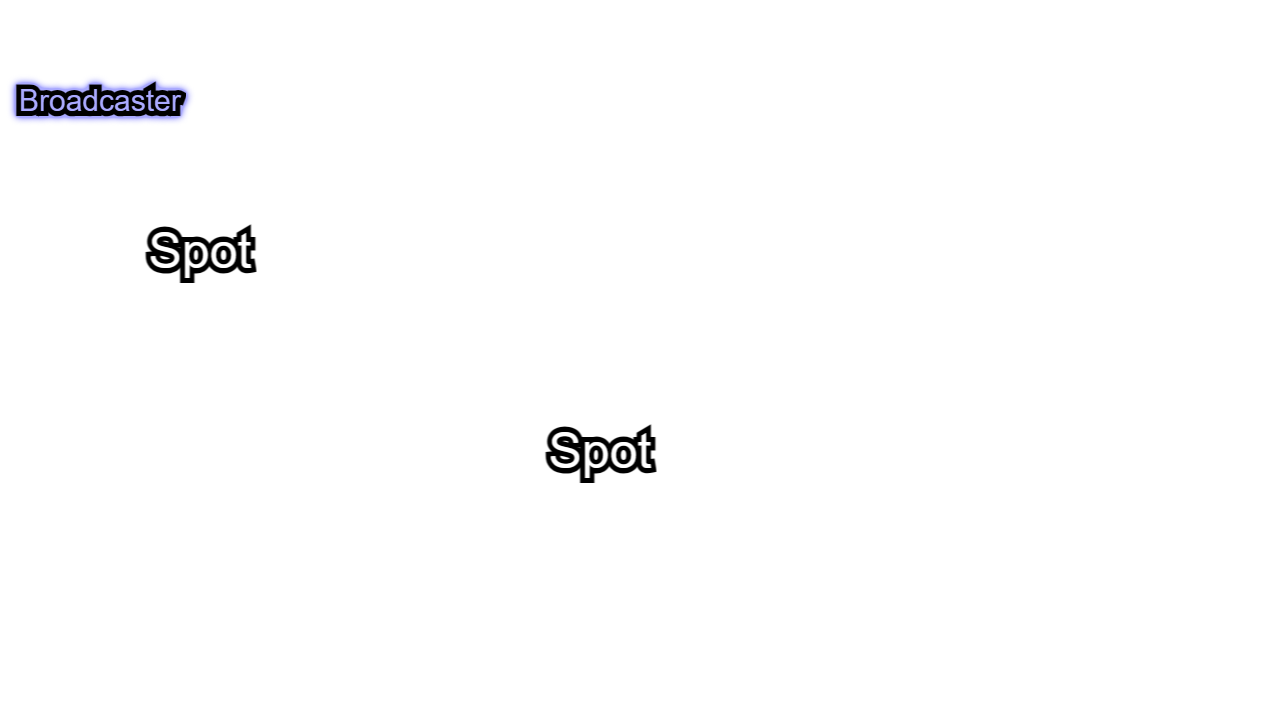
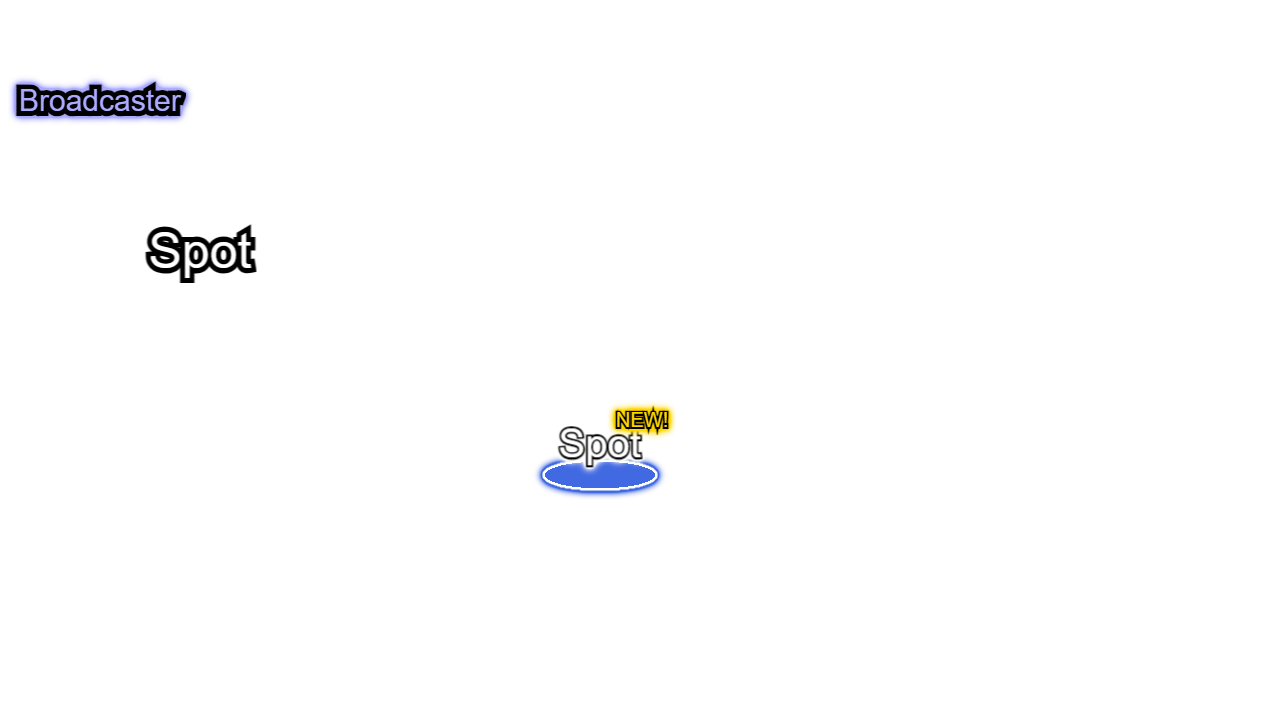
SpotBuilderでconfigを設定すると、他のSpotBuilderのデフォルト設定が書き換わる問題を修正

Changed region(s): [[0.4062, 0.55, 0.5312, 0.7028]]

diff --git a/spec/builder/spotBuilder.ts b/spec/builder/spotBuilder.ts
@@ -31,7 +31,6 @@ describe('spotBuilder', () => {
     expect(sb.location()).toEqual({ x: 30, y: 40 })
   })
   it('共通設定ができる', () => {
-    const sb = new SpotBuilder(scene)
     const asset = scene.asset.getImageById('default')
 
     SpotBuilder.getDefault(scene).image({
@@ -44,6 +43,7 @@ describe('spotBuilder', () => {
     for (const typ of assetKeys) {
       expect(SpotBuilder.getDefault(scene).image()[typ].path).toBe('./image/default.png')
     }
+    const sb = new SpotBuilder(scene)
     for (const typ of assetKeys) {
       expect(sb.image()[typ].path).toBe('./image/default.png')
     }

diff --git a/src/builder/spotBuilder.ts b/src/builder/spotBuilder.ts
@@ -14,7 +14,7 @@ export class SpotBuilder extends SpotConfigureImpl {
   private static defaultConfigure?: SpotConfigure
 
   constructor (scene: g.Scene) {
-    super(false, scene, SpotBuilder.getDefaultConfig(scene))
+    super(false, scene, new SpotConfigSupplier(SpotBuilder.getDefaultConfig(scene).get()))
   }
 
   /**

diff --git a/sample/src/customize.spot.md b/sample/src/customize.spot.md
@@ -133,8 +133,7 @@
 
 [コード全文](customize.spot.migrate.ts)
 
-左上の `Spot` の画像が変更されました.  
-TODO: バグのため個別設定不可. 要差し替え
+左上の `Spot` の画像が変更されました.
 
 ![ゲーム画面](customize.spot.migrate.1.png)
 
